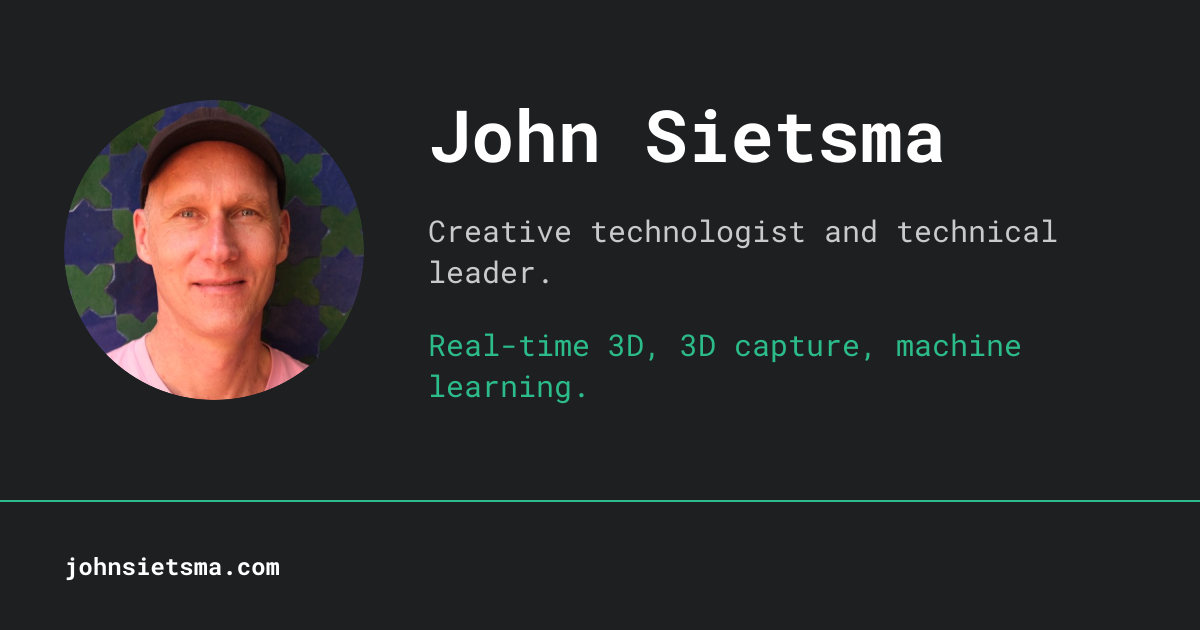
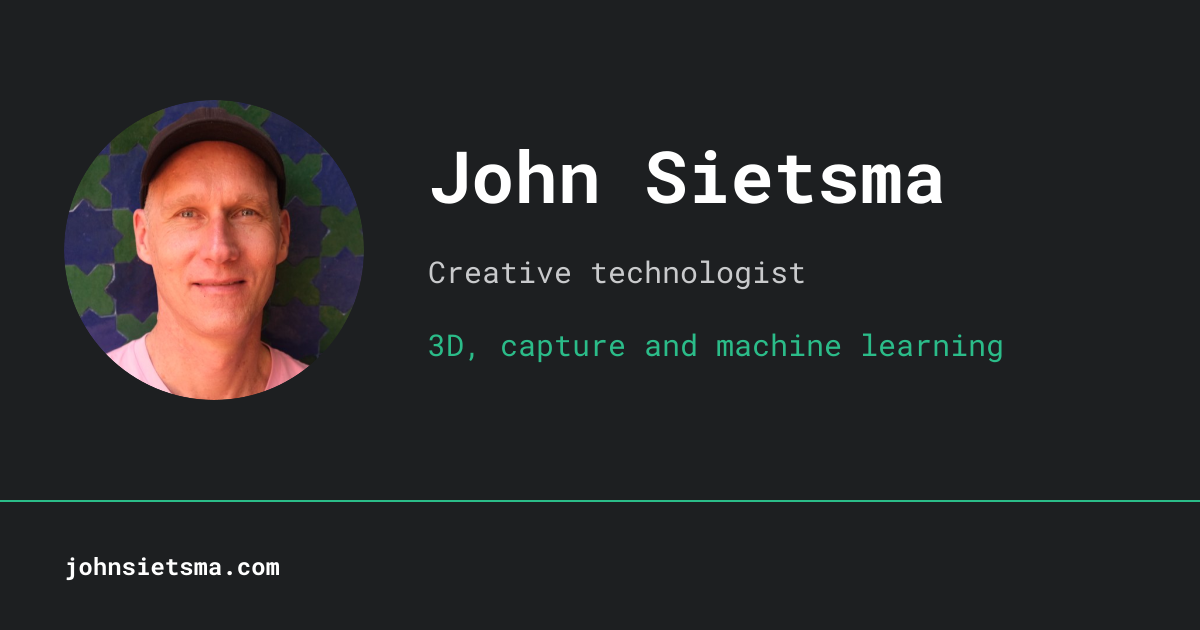
Simplify the tagline and stop the social card wrapping

diff --git a/src/site.config.ts b/src/site.config.ts
@@ -14,7 +14,7 @@ export const siteConfig: SiteConfig = {
 	// Used as both a meta property (src/components/BaseHead.astro L:31 + L:49) & the generated satori png (src/pages/og-image/[slug].png.ts)
 	author: "John Sietsma",
 	// Used as the default description meta property and webmanifest description
-	description: "Creative technologist and technical leader. Real-time 3D, 3D capture, machine learning.",
+	description: "Creative technologist. 3D, capture and machine learning.",
 	// HTML lang property, found in src/layouts/Base.astro L:18 & astro.config.ts L:48
 	lang: "en-AU",
 	// Meta property, found in src/components/BaseHead.astro L:42
